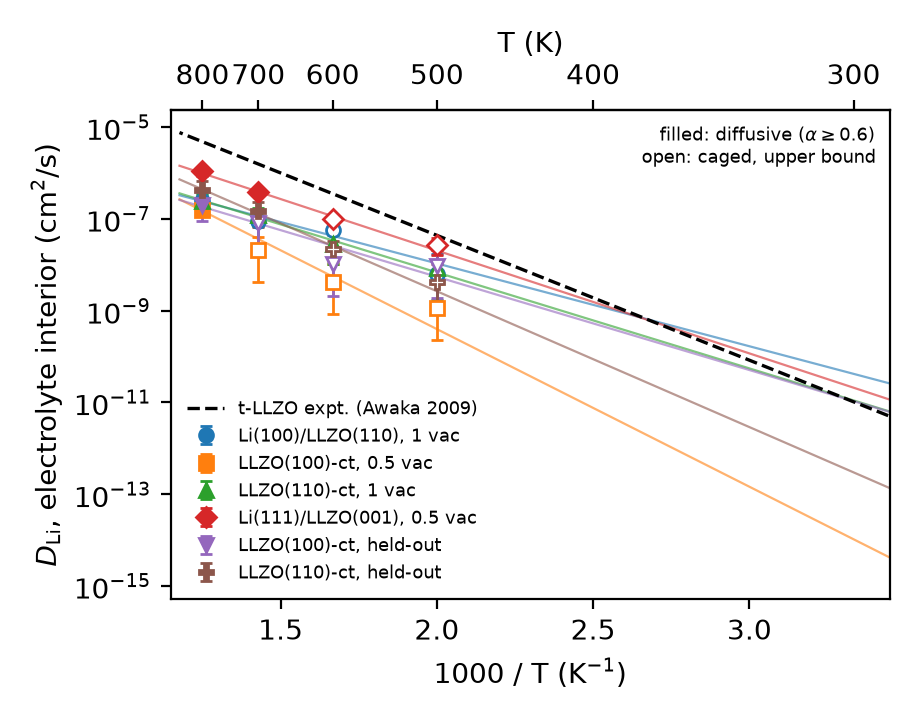
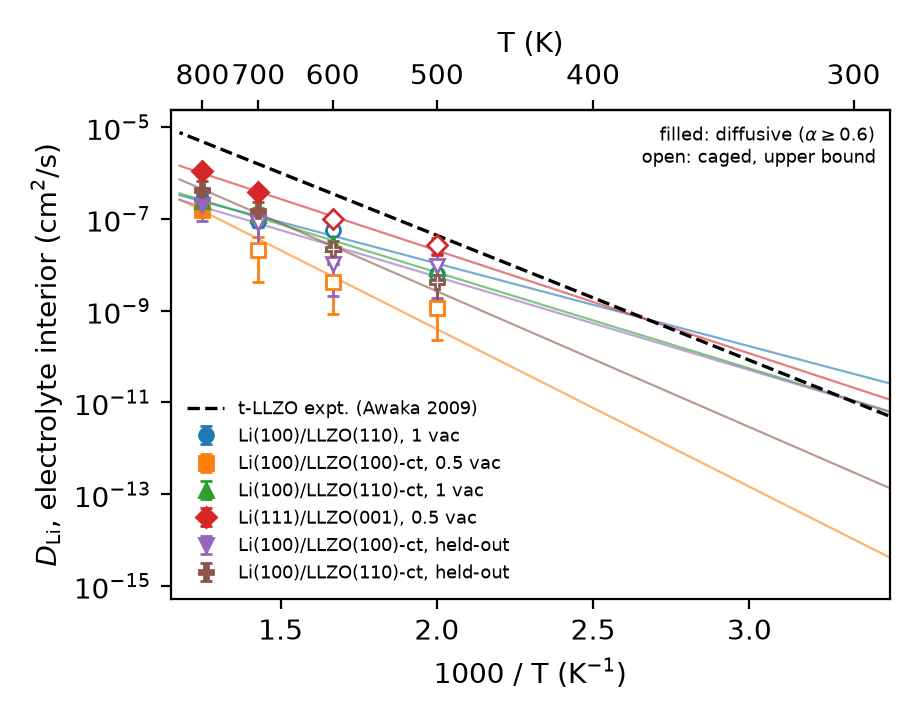
Name the Li(100) metal facet on every ct-terminated cell
All four ct-terminated cells (seed2, seed3, idx0, idx1) use Li(100) as the
metal facet; the file names omit it. Results text, Fig. 5 legend labels,
AGENT_CONTEXT and SI_notes now say Li(100)/LLZO(100)-ct and
Li(100)/LLZO(110)-ct.

Changed region(s): [[0.2739, 0.7333, 0.5478, 0.825], [0.2739, 0.6111, 0.5478, 0.7028]]

diff --git a/npj_v0_template.tex b/npj_v0_template.tex
@@ -332,9 +332,10 @@ RMSE of 252.6~meV/\AA\ against 72.4~meV/\AA\ in domain.
 \label{sec:diffusion}
 
 Production molecular dynamics with the final potential was run on six
-interfaces --- Li(100)/LLZO(110) and an LLZO(110)-terminated cell at 1 vacancy
-per formula unit, Li(111)/LLZO(001) and an LLZO(100)-terminated cell at 0.5,
-and one cell of each termination from the held-out set; 420--1378 atoms --- at
+interfaces --- Li(100)/LLZO(110) and Li(100) on an LLZO(110) ct-terminated
+cell at 1 vacancy per formula unit, Li(111)/LLZO(001) and Li(100) on an
+LLZO(100) ct-terminated cell at 0.5, and one Li(100) cell on each ct
+termination from the held-out set; 420--1378 atoms --- at
 500, 600, 700 and 800~K with five independent replicas each and 0.95--1.1~ns
 per replica, 120 trajectories in all (Methods). These six cover both trained
 vacancy concentrations, both interface-construction families, and three of the
@@ -365,7 +366,8 @@ built, whose lithium sublattice is fully occupied in the ordered arrangement
 and whose conductivity is three orders of magnitude below that of the cubic
 phase. The comparison is to the phase, not the composition: the measurement is
 on stoichiometric material, whereas these cells carry 0.5--1 vacancies per
-formula unit, which is what gives them mobile carriers at all. The LLZO(100) cell at 0.5 vacancies and the held-out LLZO(110) cell
+formula unit, which is what gives them mobile carriers at all. The Li(100)/LLZO(100) cell at 0.5 vacancies and the held-out Li(100)/LLZO(110)
+cell
 extrapolate lower (0.002 and 0.05~$\mu$S/cm) because their 500--600~K points
 are the most strongly caged; their 800~K coefficients are not outliers.
 Interfacial exchange is resolvable in the same runs, but its barrier depends

diff --git a/figs/make_fig_diffusion.py b/figs/make_fig_diffusion.py
@@ -17,11 +17,11 @@ KB = 8.617333e-5  # eV/K
 
 NAMES = {
     "seed1_420at_Li100_LLZO110_vac1pfu": ("Li(100)/LLZO(110), 1 vac", "C0", "o"),
-    "seed2_536at_LLZO100ct_vac0p5pfu": ("LLZO(100)-ct, 0.5 vac", "C1", "s"),
-    "seed3_792at_LLZO110ct_vac1pfu": ("LLZO(110)-ct, 1 vac", "C2", "^"),
+    "seed2_536at_LLZO100ct_vac0p5pfu": ("Li(100)/LLZO(100)-ct, 0.5 vac", "C1", "s"),
+    "seed3_792at_LLZO110ct_vac1pfu": ("Li(100)/LLZO(110)-ct, 1 vac", "C2", "^"),
     "seed4_1378at_Li111_LLZO001_vac0p5pfu": ("Li(111)/LLZO(001), 0.5 vac", "C3", "D"),
-    "unseen_2frames_dftfe_labelled_idx0": ("LLZO(100)-ct, held-out", "C4", "v"),
-    "unseen_2frames_dftfe_labelled_idx1": ("LLZO(110)-ct, held-out", "C5", "P"),
+    "unseen_2frames_dftfe_labelled_idx0": ("Li(100)/LLZO(100)-ct, held-out", "C4", "v"),
+    "unseen_2frames_dftfe_labelled_idx1": ("Li(100)/LLZO(110)-ct, held-out", "C5", "P"),
 }
 
 rows = list(csv.DictReader(open(os.path.join(ROOT, "data", f"diffusion_by_T_{TAG}.csv"))))

diff --git a/SI_notes.md b/SI_notes.md
@@ -131,10 +131,11 @@ rebuilds Fig. 5 from the CSVs; pass the tag of a newer copy (e.g. `5ns`) when
 the extension chunks finish.
 
 **Interior D at 800 K, 1 ns, mean over 5 replicas (cm2/s; alpha; N_eff):**
-Li(100)/LLZO(110) 1 vac 2.5e-7 (0.74, 17); LLZO(100)-ct 0.5 vac 1.6e-7 (0.66,
-16); LLZO(110)-ct 1 vac 2.4e-7 (0.74, 38); Li(111)/LLZO(001) 0.5 vac 1.1e-6
-(0.87, 216); held-out LLZO(100)-ct 2.0e-7 (0.71, 19); held-out LLZO(110)-ct
-4.3e-7 (0.81, 63). Arrhenius Ea (meV): 358+-60, 682+-105, 415+-42, 445+-33,
+Li(100)/LLZO(110) 1 vac 2.5e-7 (0.74, 17); Li(100)/LLZO(100)-ct 0.5 vac 1.6e-7
+(0.66, 16); Li(100)/LLZO(110)-ct 1 vac 2.4e-7 (0.74, 38); Li(111)/LLZO(001)
+0.5 vac 1.1e-6 (0.87, 216); held-out Li(100)/LLZO(100)-ct 2.0e-7 (0.71, 19);
+held-out Li(100)/LLZO(110)-ct 4.3e-7 (0.81, 63). All ct cells have Li(100)
+metal. Arrhenius Ea (meV): 358+-60, 682+-105, 415+-42, 445+-33,
 403+-90, 588+-46. Nernst-Einstein sigma(300 K) in S/cm: 6.7e-6, 1.6e-9, 1.6e-6,
 3.6e-6, 1.7e-6, 4.6e-8. Tetragonal LLZO experiment (Awaka 2009): 1.6e-6 S/cm,
 540 meV. Interface-exchange Ea (crossings, no residence filter): 251, 226, 188,
@@ -183,3 +184,11 @@ ran on lighter ranks and got more steps in the same wall time).
 7. Li-sublattice ordering of the seeds (site-occupancy check that the
    starting cells are the ordered tetragonal arrangement, as claimed).
 8. z-padding convergence and the periodic-sandwich comparison (above).
+
+**Frozen-atom creep in the ALCHEMI runs (2026-09-25).** Frozen atoms show a
+deterministic displacement along one in-plane axis per structure, proportional
+to that coordinate and linear in step count (2.4e-7 A/step at the cell edge;
+0.20 A after 0.84 Mstep; zero on two of six cells). Not thermal motion (x/z
+components exactly zero, replicas identical). Effect on interior D is bounded
+below 1 % (drift over a 300 ps window <= 0.04 A). Mechanism not yet identified;
+to test: wrap every N steps instead of every step, or float64 positions.

diff --git a/AGENT_CONTEXT.md b/AGENT_CONTEXT.md
@@ -146,6 +146,8 @@ campaign on PARAM Rudra (a different machine from the one in §2: home
 `results/campaign_midT_lid/kinetics/report.md` there; the CSVs behind Fig. 5
 are copied into `data/` in this repo.
 
+**Cell facets:** every ct-terminated cell (seed2, seed3, idx0, idx1) has Li(100) as the metal facet; only seed4 is Li(111). Write them as Li(100)/LLZO(100)-ct etc.
+
 **The protocol actually used (not the 1100 K Langevin stub):** six interfaces
 (the four 420–1378-atom seeds plus the two held-out frames idx0/idx1), 500,
 600, 700, 800 K, five replicas each, Nosé–Hoover (tau 100 fs), 2 fs, fp32
